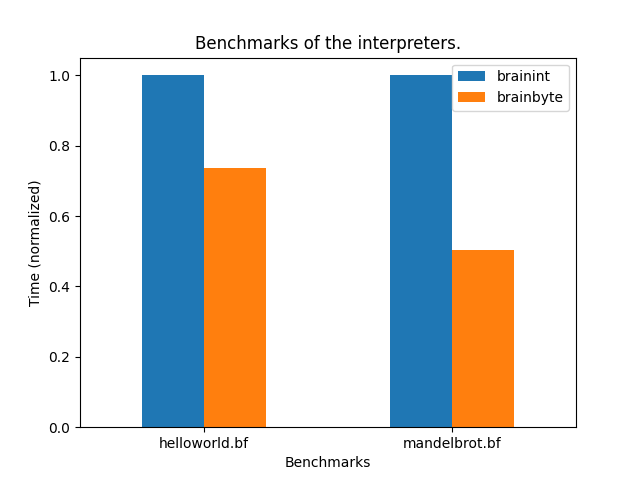
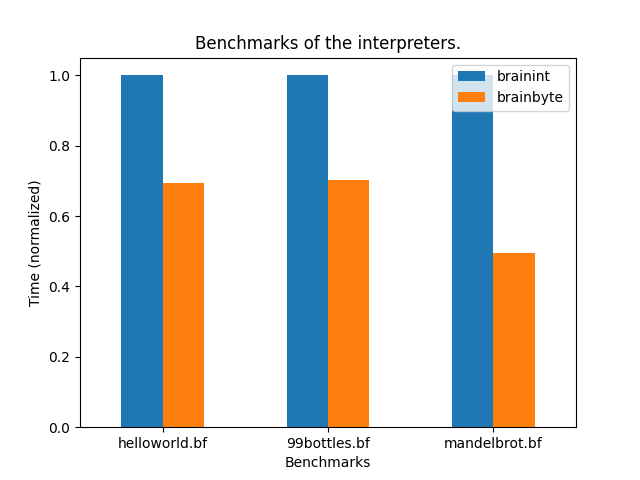
Add 99bottles as a brainfuck program

diff --git a/src/bytecode/brainbyte.cpp b/src/bytecode/brainbyte.cpp
@@ -295,9 +295,9 @@ int main(int argc, char const* argv[])
 
     // Compile the code to bytecode
     auto opcodes = compileByteCode(source);
-    printByteCode(opcodes);
-    std::cout << opcodes.size() << std::endl;
-    exit(0);
+    // printByteCode(opcodes);
+    // std::cout << opcodes.size() << std::endl;
+    // exit(0);
 
     // Interpret the bytecode
     for (; instructionPointer < opcodes.size(); instructionPointer++) {

diff --git a/visualize.py b/visualize.py
@@ -5,7 +5,7 @@ import subprocess
 import pandas as pd
 
 PROGRAMS = ["brainint", "brainbyte"]
-BENCHMARKS = ["helloworld.bf", "mandelbrot.bf"]
+BENCHMARKS = ["helloworld.bf", "99bottles.bf", "mandelbrot.bf"]
 
 
 def run(target):
